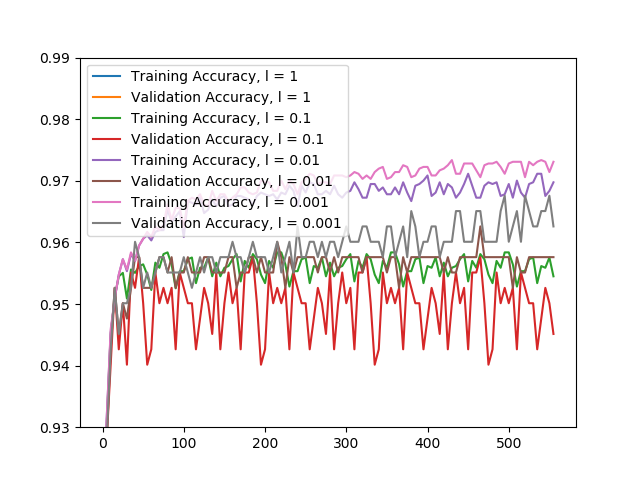
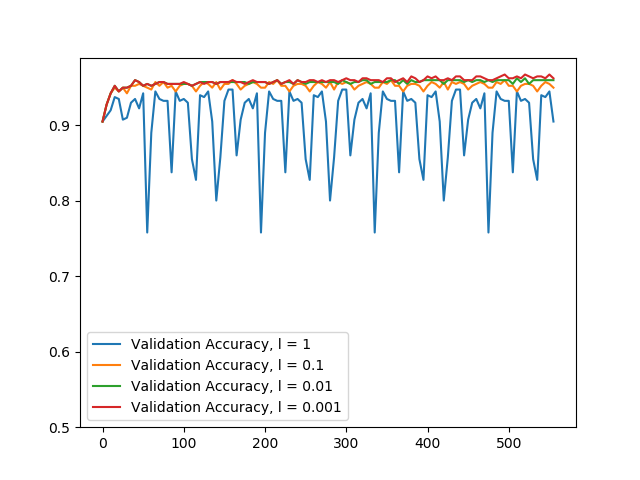
Small changes in ipynb file

diff --git a/TDT4265-StarterCode-master/assignment1/task2.py b/TDT4265-StarterCode-master/assignment1/task2.py
@@ -41,7 +41,6 @@ def train(
         Function that implements logistic regression through mini-batch
         gradient descent for the given hyperparameters
     """
-    print("Du er inne i train")
     global X_train, X_val, X_test
     # Utility variables
     num_batches_per_epoch = X_train.shape[0] // batch_size
@@ -104,13 +103,13 @@ model, train_loss, val_loss, train_accuracy, val_accuracy = train(
     learning_rate=learning_rate,
     batch_size=batch_size,
     l2_reg_lambda=1)
-print("1 modell")
+
 model1, train_loss1, val_loss1, train_accuracy1, val_accuracy1 = train(
     num_epochs=num_epochs,
     learning_rate=learning_rate,
     batch_size=batch_size,
     l2_reg_lambda=0.1)
-print("2 modeller")
+
 model2, train_loss2, val_loss2, train_accuracy2, val_accuracy2 = train(
     num_epochs=num_epochs,
     learning_rate=learning_rate,
@@ -155,15 +154,15 @@ plt.savefig("binary_train_accuracy.png")
 plt.show()
 '''
 plt.figure(1)
-plt.ylim([0.93, .99])
-utils.plot_loss(train_accuracy, "Training Accuracy, l = 1")
+plt.ylim([0.4, .99])
+#utils.plot_loss(train_accuracy, "Training Accuracy, l = 1")
 utils.plot_loss(val_accuracy, "Validation Accuracy, l = 1")
-utils.plot_loss(train_accuracy1, "Training Accuracy, l = 0.1")
+#utils.plot_loss(train_accuracy1, "Training Accuracy, l = 0.1")
 utils.plot_loss(val_accuracy1, "Validation Accuracy, l = 0.1")
-utils.plot_loss(train_accuracy2, "Training Accuracy, l = 0.01")
+#utils.plot_loss(train_accuracy2, "Training Accuracy, l = 0.01")
 utils.plot_loss(val_accuracy2, "Validation Accuracy, l = 0.01")
-utils.plot_loss(train_accuracy3, "Training Accuracy, l = 0.001")
+#utils.plot_loss(train_accuracy3, "Training Accuracy, l = 0.001")
 utils.plot_loss(val_accuracy3, "Validation Accuracy, l = 0.001")
 plt.legend()
-plt.savefig("binary_train_accuracy.png")
+plt.savefig("binary_train_accuracy_task3b.png")
 plt.show()
